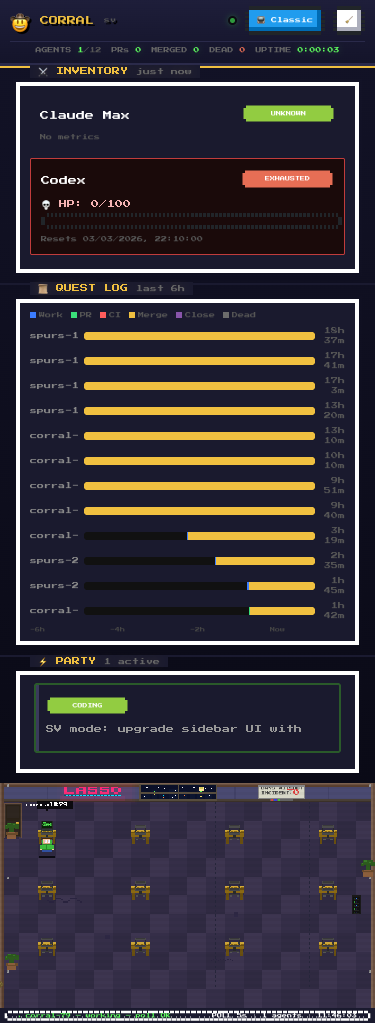
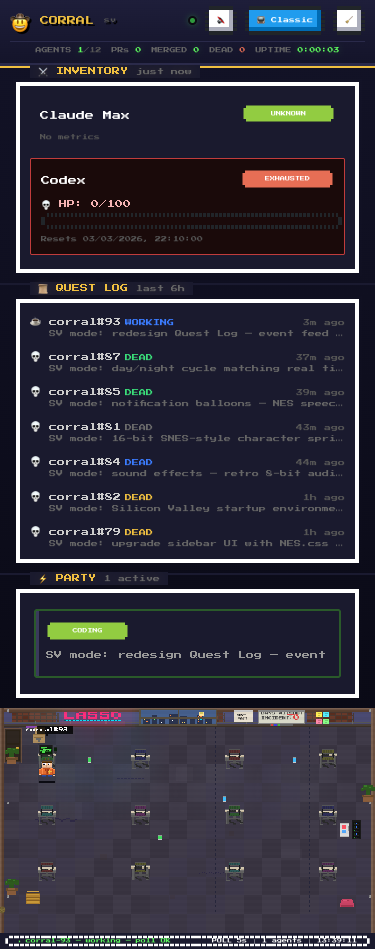
SV mode: redesign Quest Log — event feed instead of Gantt bars
Replace the Gantt-style timeline bars with a reverse-chronological event
feed showing status icons, repo#issue names, colored status labels,
relative timestamps, and issue titles.

Changed region(s): [[0.0, 0.0, 1.0, 1.0], [0.8507, 0.8556, 0.968, 0.9473], [0.968, 0.8251, 1.0, 0.8556]]

diff --git a/sv.html b/sv.html
@@ -292,26 +292,32 @@
   .uf-red { background: linear-gradient(90deg, #5a1a1a, #e76e55); }
   .uc-note { color: #555; font-size: 6px; margin-top: 4px; }
 
-  /* Timeline mini */
-  .tl-row {
-    display: flex;
-    align-items: center;
-    gap: 4px;
-    margin-bottom: 4px;
-    font-size: 6px;
+  /* Quest Log feed */
+  .ql-feed {
+    max-height: 200px;
+    overflow-y: auto;
+    scrollbar-width: thin;
+    scrollbar-color: #333 #111;
   }
-  .tl-label { width: 56px; color: #888; overflow: hidden; white-space: nowrap; }
-  .tl-track {
-    flex: 1;
-    height: 6px;
-    background: #111;
-    border-radius: 3px;
-    overflow: hidden;
-    position: relative;
+  .ql-feed::-webkit-scrollbar { width: 4px; }
+  .ql-feed::-webkit-scrollbar-track { background: #111; }
+  .ql-feed::-webkit-scrollbar-thumb { background: #333; border-radius: 2px; }
+  .ql-entry {
     display: flex;
+    align-items: flex-start;
+    gap: 6px;
+    padding: 4px 0;
+    border-bottom: 1px solid #1a1a2e;
+    font-size: 7px;
   }
-  .tl-seg { height: 100%; }
-  .tl-time { width: 24px; color: #555; text-align: right; }
+  .ql-entry:last-child { border-bottom: none; }
+  .ql-icon { flex-shrink: 0; font-size: 9px; line-height: 1; }
+  .ql-body { flex: 1; min-width: 0; }
+  .ql-head { display: flex; align-items: baseline; gap: 4px; }
+  .ql-name { color: #ccc; white-space: nowrap; overflow: hidden; text-overflow: ellipsis; }
+  .ql-status { white-space: nowrap; font-size: 6px; }
+  .ql-time { flex-shrink: 0; color: #555; font-size: 6px; margin-left: auto; }
+  .ql-title { color: #666; font-size: 6px; margin-top: 1px; white-space: nowrap; overflow: hidden; text-overflow: ellipsis; }
 
   /* Queue */
   .queue-item {
@@ -581,10 +587,12 @@
     .uc-title { font-size: 9px; }
     .uc-row { font-size: 8px; }
 
-    /* Timeline: slightly larger */
-    .tl-row { font-size: 7px; gap: 6px; }
-    .tl-label { width: 48px; font-size: 7px; }
-    .tl-track { height: 8px; }
+    /* Quest Log feed: slightly larger on mobile */
+    .ql-feed { max-height: 240px; }
+    .ql-entry { font-size: 8px; gap: 8px; padding: 5px 0; }
+    .ql-status { font-size: 7px; }
+    .ql-time { font-size: 7px; }
+    .ql-title { font-size: 7px; }
 
     /* Agent card tap-to-expand */
     .agent-card .ac-detail { max-height: 2.2em; overflow: hidden; transition: max-height 0.2s ease; }
@@ -670,21 +678,8 @@
       <section class="nes-container is-dark with-title">
         <p class="title">📜 QUEST LOG <span class="count" id="timelineRange" style="font-size:7px;color:#666">—</span></p>
 
-        <div style="display:flex; gap:8px; margin-bottom:6px; font-size:6px; color:#555">
-          <span style="display:flex;align-items:center;gap:3px"><span style="width:6px;height:6px;background:#3b7cff;display:inline-block"></span>Work</span>
-          <span style="display:flex;align-items:center;gap:3px"><span style="width:6px;height:6px;background:#3adf7a;display:inline-block"></span>PR</span>
-          <span style="display:flex;align-items:center;gap:3px"><span style="width:6px;height:6px;background:#ff5c5c;display:inline-block"></span>CI</span>
-          <span style="display:flex;align-items:center;gap:3px"><span style="width:6px;height:6px;background:#f0c040;display:inline-block"></span>Merge</span>
-          <span style="display:flex;align-items:center;gap:3px"><span style="width:6px;height:6px;background:#8855aa;display:inline-block"></span>Close</span>
-          <span style="display:flex;align-items:center;gap:3px"><span style="width:6px;height:6px;background:#6c6c6c;display:inline-block"></span>Dead</span>
-        </div>
-
-        <div id="timelineRows">
-          <div class="no-data">No timeline data</div>
-        </div>
-
-        <div style="display:flex;justify-content:space-between;color:#444;font-size:5px;margin-top:4px;padding:0 60px 0 0">
-          <span>-6h</span><span>-4h</span><span>-2h</span><span>Now</span>
+        <div id="timelineRows" class="ql-feed">
+          <div class="no-data">No quests yet...</div>
         </div>
       </section>
     </div>
@@ -1243,66 +1238,104 @@ function renderUsageCards() {
   }).join('');
 }
 
-// --- Timeline ---
+// --- Timeline (Quest Log event feed) ---
+function questIcon(state) {
+  switch (state) {
+    case 'merged': return '🎉';
+    case 'pr_closed': return '🚫';
+    case 'exited': case 'dead': return '💀';
+    case 'waiting': return '🔀';
+    case 'review_waiting': return '🔀';
+    case 'reading': return '🔀';
+    case 'coding': return '☕';
+    default: return '☕';
+  }
+}
+
+function questStatusLabel(state) {
+  switch (state) {
+    case 'merged': return 'MERGED';
+    case 'pr_closed': return 'CLOSED';
+    case 'exited': return 'EXITED';
+    case 'dead': return 'DEAD';
+    case 'waiting': return 'PR OPEN';
+    case 'review_waiting': return 'REVIEW';
+    case 'reading': return 'REVIEW';
+    case 'coding': return 'WORKING';
+    default: return 'IDLE';
+  }
+}
+
+function questTimeAgo(ms) {
+  if (ms < 60000) return 'just now';
+  const mins = Math.floor(ms / 60000);
+  if (mins < 60) return mins + 'm ago';
+  const hours = Math.floor(mins / 60);
+  if (hours < 24) return hours + 'h ago';
+  const days = Math.floor(hours / 24);
+  return days + 'd ago';
+}
+
 function renderTimeline() {
   const container = document.getElementById('timelineRows');
   const rangeEl = document.getElementById('timelineRange');
   if (!container) return;
 
-  // Use history data if available, otherwise fall back to current agents
   const items = historyData.length ? historyData : agents;
   if (!items.length) {
-    container.innerHTML = '<div class="no-data">No timeline data</div>';
+    container.innerHTML = '<div class="no-data">No quests yet...</div>';
     return;
   }
 
   const now = Date.now();
-  const windowMs = 6 * 3600000; // 6 hours
-  const windowStart = now - windowMs;
   if (rangeEl) rangeEl.textContent = 'last 6h';
 
-  // Build timeline rows from history statusHistory or agent data
-  const rows = items.slice(0, 12).map(item => {
-    const name = escapeHtml((item.id || '').substring(0, 8));
+  // Build event list: extract most recent event time for each item
+  const events = items.map(item => {
     const state = mapState(item);
-    const colorClass = stateToColorClass(state);
-    const created = getCreatedAt(item) || windowStart;
-    const elapsed = formatDuration(now - created);
-
-    // If history item has statusHistory, render segments
     const statusHistory = item.statusHistory || [];
-    if (statusHistory.length > 1) {
-      let segments = '';
-      for (let i = 0; i < statusHistory.length; i++) {
-        const entry = statusHistory[i];
-        const entryTime = new Date(entry.at).getTime();
-        const nextTime = i + 1 < statusHistory.length ? new Date(statusHistory[i+1].at).getTime() : now;
-        const segStart = Math.max(entryTime, windowStart);
-        const segEnd = Math.min(nextTime, now);
-        if (segEnd <= segStart) continue;
-        const startPct = ((segStart - windowStart) / windowMs) * 100;
-        const widthPct = ((segEnd - segStart) / windowMs) * 100;
-        const color = timelineColor(entry.status || '');
-        segments += `<div class="tl-seg" style="position:absolute;left:${startPct}%;width:${widthPct}%;background:${color}"></div>`;
-      }
-      return `<div class="tl-row">
-        <span class="tl-label ${colorClass}">${name}</span>
-        <div class="tl-track" style="position:relative">${segments}</div>
-        <span class="tl-time">${elapsed}</span>
-      </div>`;
+    // Most recent event time: last statusHistory entry, or lastUpdatedAt, or createdAt
+    let eventTime = null;
+    if (statusHistory.length) {
+      const last = statusHistory[statusHistory.length - 1];
+      if (last.at) eventTime = new Date(last.at).getTime();
     }
+    if (!eventTime) {
+      const updated = item.lastUpdatedAt || item.updatedAt || item.updated_at;
+      if (updated) eventTime = new Date(updated).getTime();
+    }
+    if (!eventTime) eventTime = getCreatedAt(item) || now;
 
-    // Simple single-color bar for agents without history
-    const agentStart = Math.max(created, windowStart);
-    const startPct = ((agentStart - windowStart) / windowMs) * 100;
-    const widthPct = ((now - agentStart) / windowMs) * 100;
-    const color = timelineColor(item.status || '');
-    return `<div class="tl-row">
-      <span class="tl-label ${colorClass}">${name}</span>
-      <div class="tl-track" style="position:relative">
-        <div class="tl-seg" style="position:absolute;left:${startPct}%;width:${widthPct}%;background:${color}"></div>
+    const repoName = getRepoName(item);
+    const issueId = getIssueId(item);
+    const name = repoName && issueId ? repoName + '#' + issueId : (repoName || escapeHtml((item.id || '').substring(0, 12)));
+    const title = item.issueTitle || item.issue_title || '';
+
+    return { state, eventTime, name, title, item };
+  });
+
+  // Sort by most recent event first
+  events.sort((a, b) => b.eventTime - a.eventTime);
+
+  const rows = events.slice(0, 12).map(ev => {
+    const icon = questIcon(ev.state);
+    const label = questStatusLabel(ev.state);
+    const color = timelineColor(ev.item.status || '');
+    const timeAgo = questTimeAgo(now - ev.eventTime);
+    const titleLine = ev.title
+      ? `<div class="ql-title">${escapeHtml(ev.title)}</div>`
+      : '';
+
+    return `<div class="ql-entry">
+      <span class="ql-icon">${icon}</span>
+      <div class="ql-body">
+        <div class="ql-head">
+          <span class="ql-name">${escapeHtml(ev.name)}</span>
+          <span class="ql-status" style="color:${color}">${label}</span>
+          <span class="ql-time">${timeAgo}</span>
+        </div>
+        ${titleLine}
       </div>
-      <span class="tl-time">${elapsed}</span>
     </div>`;
   });
 
